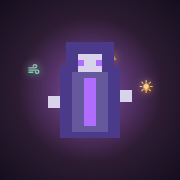
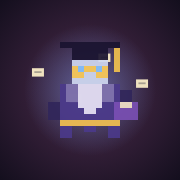
Corrige retratos dos diálogos e dá visual próprio ao Diretor Espectral
- O retrato agora usa quem o jogador abordou (morador, lavrador, criança,
  elfo, NPC com apelido), então não aparece outra pessoa no lugar.
- Atendentes e moradores com o mesmo nome usam a mesma aparência do mapa.
- Filhos aparecem com o próprio visual no diálogo.
- Diretor Espectral ganha capelo, óculos, barba, grimório e páginas
  voando, para não ficar igual ao Silenciador.

Claude-Session: https://claude.ai/code/session_01YBA9s8XnYJneddHbd6xUF3

diff --git a/js/08-interface.js b/js/08-interface.js
@@ -27,10 +27,56 @@ function enemyByName(name) {
   return Object.keys(ENEMIES).find((type) => ENEMIES[type].nome === name);
 }
 
+/** Aparência de um morador que anda pela vila, igual ao desenho no mapa. */
+function walkerLook(w) {
+  if (w.elf) return { robe: ELF_ROBES[w.robe.length % 4], hair: ELF_HAIRS[w.nm.length % 4], elf: true };
+  return { robe: w.robe, hat: w.hat ?? null, hair: w.hair, seed: w.seed };
+}
+
+/** Nomes pelos quais alguém pode aparecer no diálogo: completo, sem o apelido e só o primeiro nome. */
+function speakerNames(full, extra = []) {
+  return [full, full.split(",")[0], full.split(" ")[0], ...extra];
+}
+
+/**
+ * Descobre quem está no tile (x, y) quando o jogador vai falar com alguém.
+ * Assim o retrato mostra exatamente essa pessoa, mesmo que ela fale com um apelido.
+ */
+function talkTargetAt(x, y) {
+  const z = ZONES[player.zone];
+  const town = z.town;
+  const at = (q) => q.x === x && q.y === y;
+  const elf = elfAt(x, y);
+  if (elf) return { names: speakerNames(elf.nm), look: { robe: elf.robe, hair: elf.hair, elf: true } };
+  const fm = town && familyList().find(at);
+  if (fm) {
+    if (fm.kind === "spouse" && NPCS[fm.id]) return { names: speakerNames(NPCS[fm.id].nome), look: npcLook(fm.id) };
+    if (fm.k) return { names: [fm.k.name], look: { kid: fm.k } };
+  }
+  const ro = town && roamAt(x, y);
+  const id = ro ? ro.id : z.npcs && z.npcs[`${x},${y}`];
+  if (id && NPCS[id]) return { names: speakerNames(NPCS[id].nome), look: npcLook(id) };
+  const wk = town && walkerAt(x, y);
+  if (wk) return { names: speakerNames(wk.nm, ["Morador"]), look: walkerLook(wk) };
+  const fk = (game.farmers || []).find(at);
+  if (fk) return { names: speakerNames(fk.nm), look: { robe: fk.robe, hat: "#c9a03a", hair: fk.hair } };
+  const kd = (game.kidsP || []).find(at);
+  if (kd) return { names: [kd.nm], look: { robe: kd.robe, hat: null, hair: kd.hair } };
+  return null;
+}
+
+function npcLook(id) {
+  const n = NPCS[id];
+  return { robe: n.robe, hat: n.hat, hair: n.hair, id, glow: MAGIC_KEEPERS.has(id) };
+}
+
 /** Descobre quem está falando, para desenhar o retrato certo. */
 function speakerLook(name) {
   if (!name) return null;
   if (name === "Você") return { hero: true };
+  const short = name.split(",")[0];
+  const target = game.talkTarget;
+  if (target && target.names.includes(name)) return target.look;
   if (name in STORY_SPEAKERS) {
     const s = STORY_SPEAKERS[name];
     if (!s) return null;
@@ -40,26 +86,39 @@ function speakerLook(name) {
   }
   const enemy = enemyByName(name);
   if (enemy) return { enemy };
-  const short = name.split(",")[0];
+  const kid = (player.kids || []).find((k) => k.name === name);
+  if (kid) return { kid };
+  if (player.zone === "interior" && game.inter) {
+    const I = game.inter;
+    if (I.keeper && I.keeper.split(",")[0] === short) return { robe: I.kc, hat: null, hair: I.kh };
+    const pe = (I.people || []).find((q) => q.nm === short);
+    if (pe) return pe.kid ? { kid: pe.kid } : { robe: pe.robe, hat: pe.hat ?? null, hair: pe.hair };
+  }
   for (const id in NPCS) {
     const n = NPCS[id];
-    if (n.nome === name || n.nome.split(",")[0] === short)
-      return { robe: n.robe, hat: n.hat, hair: n.hair, id, glow: MAGIC_KEEPERS.has(id) };
+    if (n.nome === name || n.nome.split(",")[0] === short) return npcLook(id);
   }
   const royal = (typeof PARADE_MEM !== "undefined" ? PARADE_MEM : []).find((m) => m.n === name);
   if (royal) return { robe: royal.robe, hat: royal.hat, hair: royal.hair, crown: royal.crown };
+  // Os atendentes são desenhados sem chapéu: o retrato precisa usar o mesmo "null".
   const keeper = Object.values(KEEPERS).find(([n]) => n === name || n.split(",")[0] === short);
-  if (keeper) return { robe: keeper[1], hair: keeper[2] };
-  const walker = (game.walkers || []).find((w) => w.nm === short);
-  if (walker)
-    return { robe: walker.robe, hat: walker.hat, hair: walker.hair, seed: walker.seed, elf: walker.elf };
+  if (keeper) return { robe: keeper[1], hat: null, hair: keeper[2] };
+  // Vários moradores podem ter o mesmo nome: fica com o mais perto do jogador.
+  const dist = (w) => Math.abs(w.x - player.x) + Math.abs(w.y - player.y);
+  const walker = (game.walkers || [])
+    .filter((w) => w.nm === short)
+    .sort((a, b) => dist(a) - dist(b))[0];
+  if (walker) return walkerLook(walker);
   const elf = (game.elves || []).find((e) => e.nm === short);
   if (elf) return { robe: elf.robe, hair: elf.hair, elf: true };
-  if (game.inter && game.inter.keeper && game.inter.keeper.split(",")[0] === short)
-    return { robe: game.inter.kc, hair: game.inter.kh };
+  const farmer = (game.farmers || []).find((f) => f.nm === name);
+  if (farmer) return { robe: farmer.robe, hat: "#c9a03a", hair: farmer.hair };
+  const child = (game.kidsP || []).find((k) => k.nm === name);
+  if (child) return { robe: child.robe, hat: null, hair: child.hair };
   const seed = nameHash(name);
   return {
     robe: NAME_COLORS[seed % NAME_COLORS.length],
+    hat: null,
     hair: ["#3a2414", "#d9a441", "#1a1a1a", "#8a3a1a"][seed % 4],
     seed,
   };
@@ -156,7 +215,9 @@ function drawDialogPortrait(d, talking) {
   }
   const rects = d.look.hero
     ? heroRects(player.look, "down", player.look.staffc || "#ffe066")
-    : d.look.elf
+    : d.look.kid
+      ? heroRects(d.look.kid.look, "down", null)
+      : d.look.elf
       ? elfRects(d.look.robe, d.look.hair, "down")
       : wizardRects(
           d.look.robe,
@@ -184,9 +245,13 @@ function drawDialogPortrait(d, talking) {
   }
   const skin = d.look.hero
     ? player.look.skin
-    : d.look.elf
+    : d.look.kid
+      ? d.look.kid.look.skin
+      : d.look.elf
       ? "#f1d8b8"
-      : npcSkin(d.look.robe, d.look.hat, d.look.hair);
+      : d.look.seed != null
+        ? SKIN_TONES[d.look.seed % SKIN_TONES.length]
+        : npcSkin(d.look.robe, d.look.hat, d.look.hair);
   const blink = Math.floor(t * 10) % 34 === 0;
   if (blink) {
     c2.fillStyle = skin;

diff --git a/js/02-estado-som-sprites.js b/js/02-estado-som-sprites.js
@@ -1421,6 +1421,37 @@ function enemyRects(shape, c, t, accent) {
         [7, 5, 2, 2, "#fff"],
         [4, 1, 8, 2, "#c9a050"],
       ];
+    case "diretor": {
+      // Diretor da Academia: capelo de formatura, óculos, barba longa e um grimório na mão.
+      const cap = "#1a1430",
+        gold = "#f2c14e",
+        face = "#cfd8f0",
+        beard = "#e8e4f4";
+      return [
+        [3, 0, 10, 1, cap],
+        [5, 1, 6, 2, cap],
+        [12, 1, 1, 3 + f, gold],
+        [5, 3, 6, 4, face],
+        [5, 4, 2, 2, gold],
+        [9, 4, 2, 2, gold],
+        [6, 4, 1, 1, "#7ab8ff"],
+        [9, 4, 1, 1, "#7ab8ff"],
+        [7, 4, 2, 1, gold],
+        [3, 7, 10, 7, c],
+        [4, 7, 2, 3, l],
+        [10, 7, 2, 3, l],
+        [6, 7, 4, 4, beard],
+        [7, 11, 2, 1, beard],
+        [3, 13, 10, 1, gold],
+        [3, 14, 2, 1 + f, c],
+        [7, 14, 2, 2 - f, c],
+        [11, 14, 2, 1 + f, c],
+        [1, 9 + f, 2, 3, d],
+        [13, 9 - f, 2, 3, d],
+        [12, 11 - f, 4, 3, "#7a4fb3"],
+        [13, 11 - f, 2, 1, "#efe2c0"],
+      ];
+    }
     case "boss": {
       const a = accent || "#b06cff";
       return [
@@ -1460,8 +1491,27 @@ function drawEnemy(type, x, y, u, t, extra = {}) {
       );
     });
   }
+  if (e.shape === "diretor") {
+    // Brilho azul e páginas voando em volta (o Silenciador tem as runas).
+    const cx = x + 8 * u,
+      cy = y + 8 * u;
+    const g = ctx.createRadialGradient(cx, cy, u, cx, cy, u * 11);
+    g.addColorStop(0, "rgba(120,170,255,.4)");
+    g.addColorStop(1, "rgba(120,170,255,0)");
+    ctx.fillStyle = g;
+    ctx.fillRect(cx - u * 11, cy - u * 11, u * 22, u * 22);
+    for (let i = 0; i < 4; i++) {
+      const a = t * 0.9 + (i * Math.PI) / 2;
+      const px = cx + Math.cos(a) * u * 9,
+        py = cy + Math.sin(a) * u * 3.5 - u * 2;
+      ctx.fillStyle = "#efe2c0";
+      ctx.fillRect(px - u, py - u * 0.7, u * 2, u * 1.4);
+      ctx.fillStyle = "#a8a090";
+      ctx.fillRect(px - u * 0.6, py - u * 0.2, u * 1.2, u * 0.3);
+    }
+  }
   ctx.save();
-  if (e.shape === "ghost") ctx.globalAlpha = 0.85;
+  if (e.shape === "ghost" || e.shape === "diretor") ctx.globalAlpha = e.shape === "ghost" ? 0.85 : 0.92;
   drawSprite(enemyRects(e.shape, e.cor, t, accent), x, y, u, extra.flip);
   ctx.restore();
 }

diff --git a/js/03-mapa-e-mundo.js b/js/03-mapa-e-mundo.js
@@ -1903,6 +1903,7 @@ function interact() {
   interactAt(tg.x, tg.y);
 }
 function interactAt(x, y) {
+  game.talkTarget = talkTargetAt(x, y);
   const elf = elfAt(x, y);
   if (elf) {
     elf.dir = x < player.x ? "right" : x > player.x ? "left" : y < player.y ? "down" : "up";

diff --git a/js/01-dados.js b/js/01-dados.js
@@ -1693,7 +1693,7 @@ const ENEMIES = {
     weak: [],
     resist: [],
     cor: "#4b3a8a",
-    shape: "boss",
+    shape: "diretor",
     boss: true,
     special: "regen",
   },
